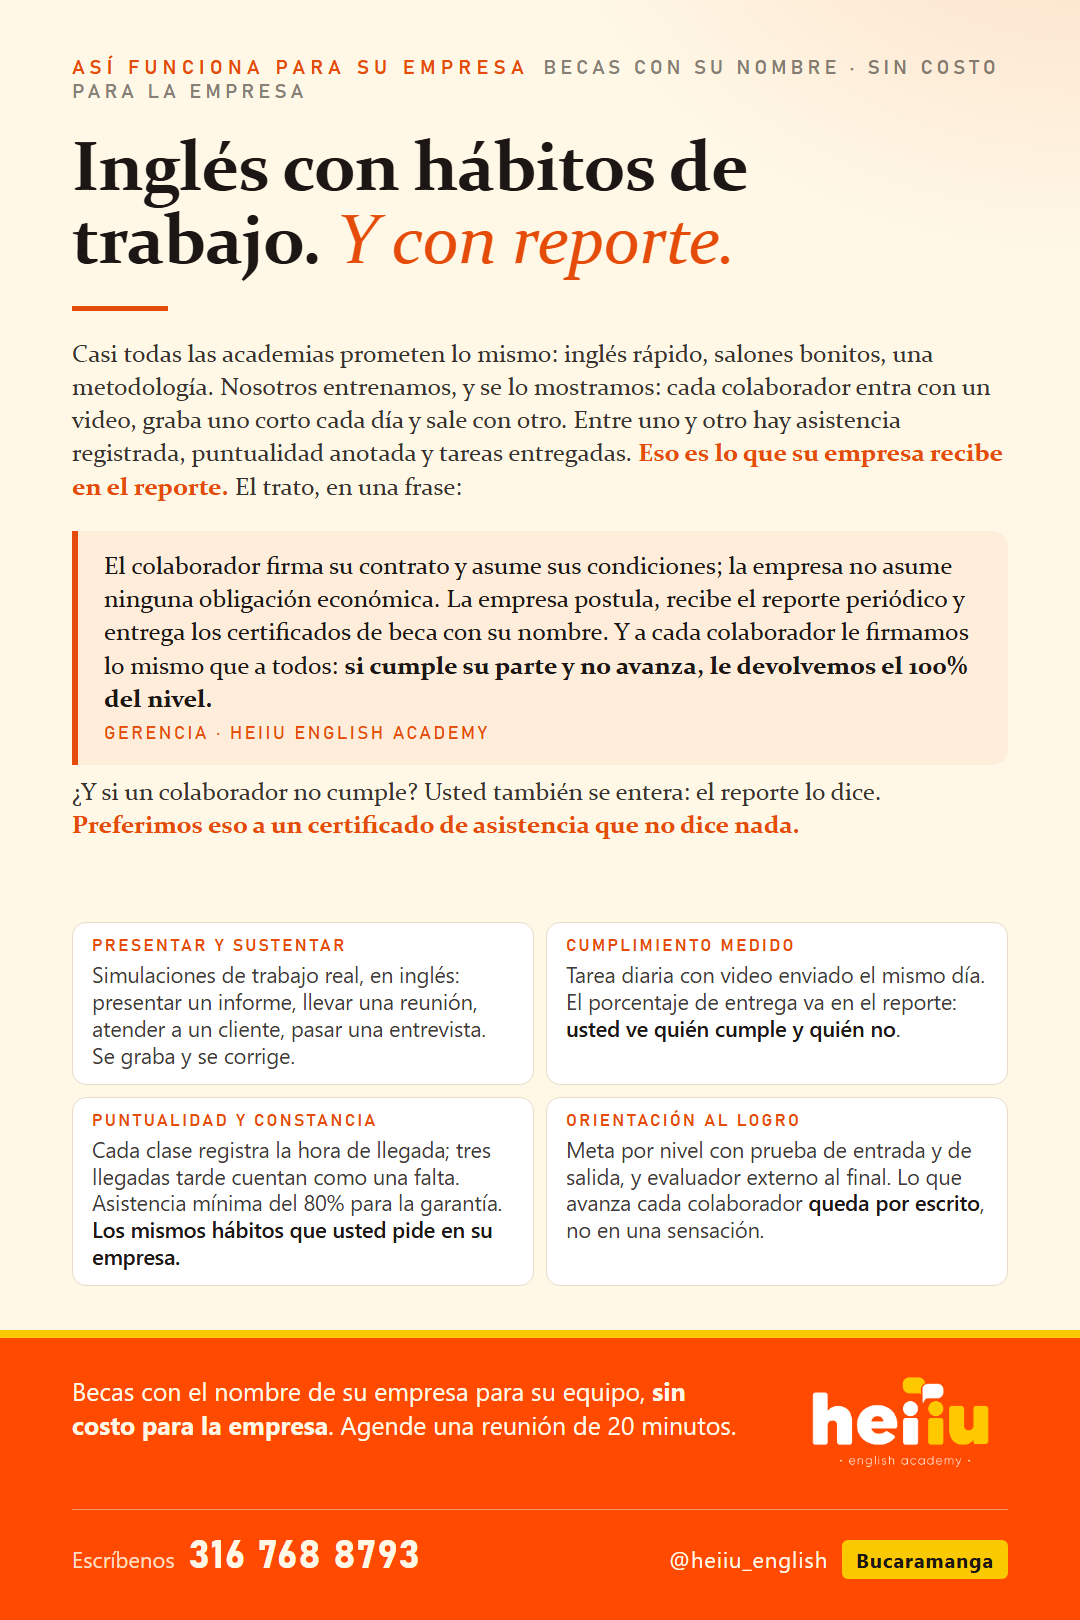
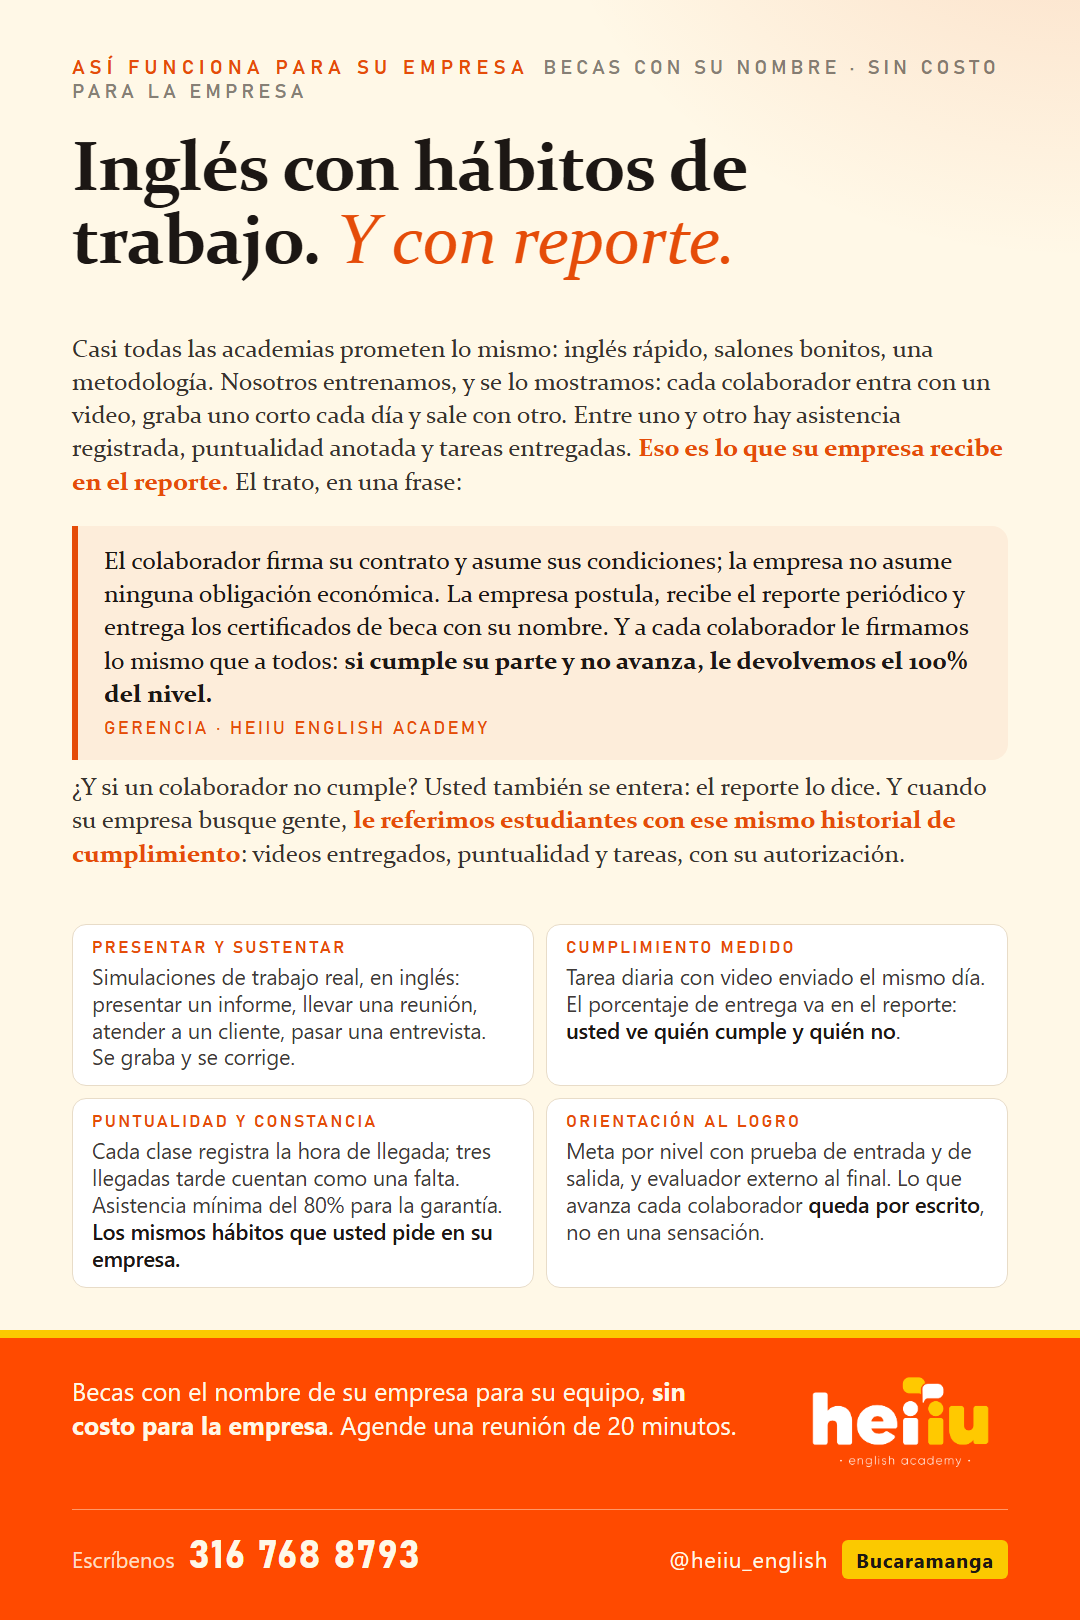
Pieza empresas: referimos estudiantes con su historial de cumplimiento (videos, puntualidad, tareas) con su autorizacion

Changed region(s): [[0.0611, 0.3395, 0.9167, 0.8025], [0.0611, 0.1852, 0.9167, 0.3086], [0.5194, 0.679, 0.9167, 0.7716]]

diff --git a/generadores/comercial/gen_piezas_conciencia.py b/generadores/comercial/gen_piezas_conciencia.py
@@ -258,7 +258,7 @@ PIEZAS = {
         quote=('El colaborador firma su contrato y asume sus condiciones; la empresa no asume ninguna obligación económica. La empresa postula, recibe el reporte periódico y entrega los certificados de beca con su nombre. '
                'Y a cada colaborador le firmamos lo mismo que a todos: <b>si cumple su parte y no avanza, le devolvemos el 100% del nivel.</b>'),
         cite='GERENCIA · HEIIU ENGLISH ACADEMY',
-        after='¿Y si un colaborador no cumple? Usted también se entera: el reporte lo dice. <b>Preferimos eso a un certificado de asistencia que no dice nada.</b>',
+        after='¿Y si un colaborador no cumple? Usted también se entera: el reporte lo dice. Y cuando su empresa busque gente, <b>le referimos estudiantes con ese mismo historial de cumplimiento</b>: videos entregados, puntualidad y tareas, con su autorización.',
         st=[], lead='', big='', big2='',
         why=[('PRESENTAR Y SUSTENTAR', 'Simulaciones de trabajo real, en inglés: presentar un informe, llevar una reunión, atender a un cliente, pasar una entrevista. Se graba y se corrige.', False),
              ('CUMPLIMIENTO MEDIDO', 'Tarea diaria con video enviado el mismo día. El porcentaje de entrega va en el reporte: <b>usted ve quién cumple y quién no</b>.', False),
